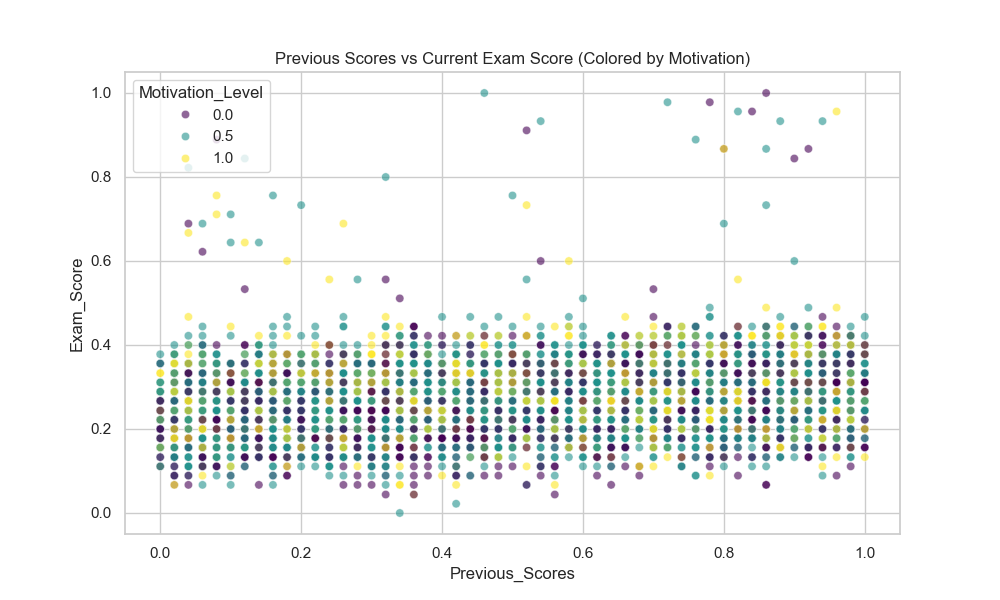
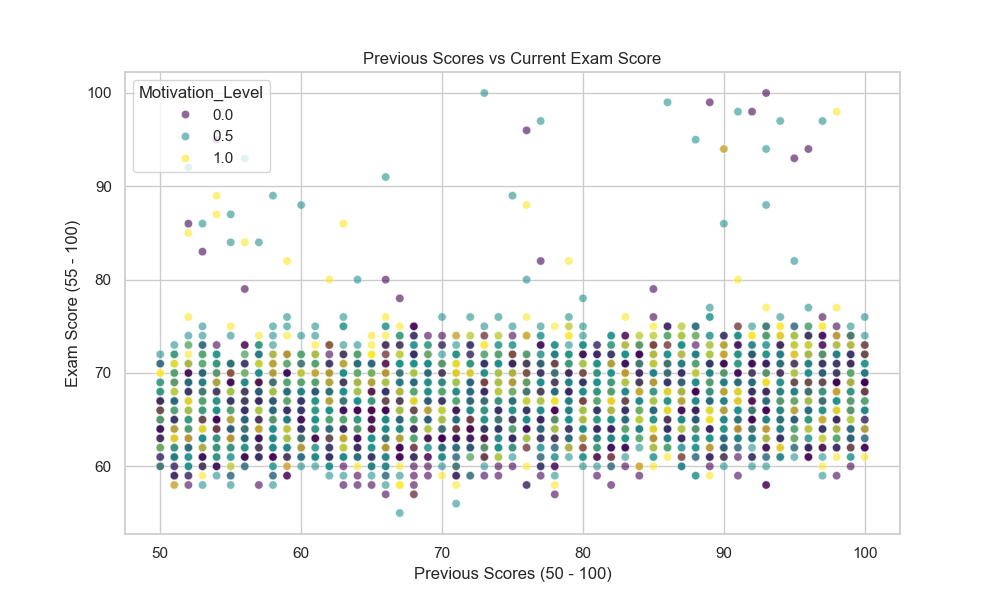
Update Visualisation Analysis

diff --git a/visualisation_analysis.py b/visualisation_analysis.py
@@ -11,48 +11,71 @@ if not os.path.exists(output_dir):
 # 2. Load Dataset
 df = pd.read_csv('Student_Performance_fin.csv')
 
+# --- DATA MAPPING: Reverting to Original Ranges ---
+# Hours Studied: Min 1, Max 44 (Range 43)
+df['Hours_Studied_Actual'] = (df['Hours_Studied'] * 43 + 1).round()
+
+# Sleep Hours: Min 4, Max 10 (Range 6)
+df['Sleep_Hours_Actual'] = (df['Sleep_Hours'] * 6 + 4).round().astype(int)
+
+# Previous Scores: Min 50, Max 100 (Range 50)
+df['Previous_Scores_Actual'] = (df['Previous_Scores'] * 50 + 50).round()
+
+# Exam Score: Min 55, Max 100 (Range 45)
+df['Exam_Score_Actual'] = (df['Exam_Score'] * 45 + 55).round()
+
 # Set aesthetic style
 sns.set_theme(style="whitegrid")
 plt.rcParams['figure.figsize'] = (12, 8)
 
-# --- VISUALIZATION 1: Correlation Heatmap ---
+# --- VISUALIZATION 1: Correlation Heatmap (Tanpa column 'Actual') ---
 plt.figure(figsize=(15, 10))
-corr_matrix = df.corr()
+original_cols = [col for col in df.columns if 'Actual' not in col]
+corr_matrix = df[original_cols].select_dtypes(include=['number']).corr()
+
 sns.heatmap(corr_matrix, annot=True, cmap='coolwarm', fmt=".2f", linewidths=0.5)
 plt.title('Correlation Heatmap of Student Performance Factors')
 plt.savefig(f'{output_dir}/01_correlation_heatmap.png')
 plt.close()
 
-# --- VISUALIZATION 2: Hours Studied vs Exam Score (Regression Plot) ---
+# --- VISUALIZATION 2: Hours Studied vs Exam Score (Original Range) ---
 plt.figure(figsize=(10, 6))
-sns.regplot(data=df, x='Hours_Studied', y='Exam_Score', 
+sns.regplot(data=df, x='Hours_Studied_Actual', y='Exam_Score_Actual', 
             scatter_kws={'alpha':0.3, 'color':'royalblue'}, 
             line_kws={'color':'red'})
 plt.title('Impact of Study Hours on Exam Scores')
+plt.xlabel('Hours Studied (1 - 44)')
+plt.ylabel('Exam Score (55 - 100)')
 plt.savefig(f'{output_dir}/02_study_hours_vs_score.png')
 plt.close()
 
-# --- VISUALIZATION 3: Previous Scores vs Exam Score ---
+# --- VISUALIZATION 3: Previous Scores vs Exam Score (Original Range) ---
 plt.figure(figsize=(10, 6))
-sns.scatterplot(data=df, x='Previous_Scores', y='Exam_Score', hue='Motivation_Level', palette='viridis', alpha=0.6)
-plt.title('Previous Scores vs Current Exam Score (Colored by Motivation)')
+sns.scatterplot(data=df, x='Previous_Scores_Actual', y='Exam_Score_Actual', 
+                hue='Motivation_Level', palette='viridis', alpha=0.6)
+plt.title('Previous Scores vs Current Exam Score')
+plt.xlabel('Previous Scores (50 - 100)')
+plt.ylabel('Exam Score (55 - 100)')
 plt.savefig(f'{output_dir}/03_prev_score_vs_exam_score.png')
 plt.close()
 
-# --- VISUALIZATION 4: Parental Involvement (Box Plot) ---
-# Assuming these are encoded, but boxplots help see the spread
+# --- VISUALIZATION 4: Parental Involvement Box Plot (Original Y Range) ---
 plt.figure(figsize=(10, 6))
-sns.boxplot(data=df, x='Parental_Involvement', y='Exam_Score', palette='Set2')
+sns.boxplot(data=df, x='Parental_Involvement', y='Exam_Score_Actual', palette='Set2')
 plt.title('Exam Score Distribution by Parental Involvement Level')
+plt.ylabel('Exam Score (55 - 100)')
 plt.savefig(f'{output_dir}/04_parental_involvement_boxplot.png')
 plt.close()
 
-# --- VISUALIZATION 5: Sleep Hours (Average Bar Chart) ---
+# --- VISUALIZATION 5: Sleep Hours Average Bar Chart (Original X & Y Ranges) ---
 plt.figure(figsize=(10, 6))
-avg_sleep_score = df.groupby('Sleep_Hours')['Exam_Score'].mean().reset_index()
-sns.barplot(data=avg_sleep_score, x='Sleep_Hours', y='Exam_Score', palette='Blues_d')
+# Calculate mean using original exam scores
+avg_sleep_score = df.groupby('Sleep_Hours_Actual')['Exam_Score_Actual'].mean().reset_index()
+sns.barplot(data=avg_sleep_score, x='Sleep_Hours_Actual', y='Exam_Score_Actual', palette='Blues_d')
+
 plt.title('Average Exam Score by Sleep Hours')
-plt.ylabel('Mean Exam Score')
+plt.xlabel('Sleep Hours (4 - 10)')
+plt.ylabel('Mean Exam Score (55 - 100)')
 plt.savefig(f'{output_dir}/05_sleep_hours_avg_score.png')
 plt.close()
 
